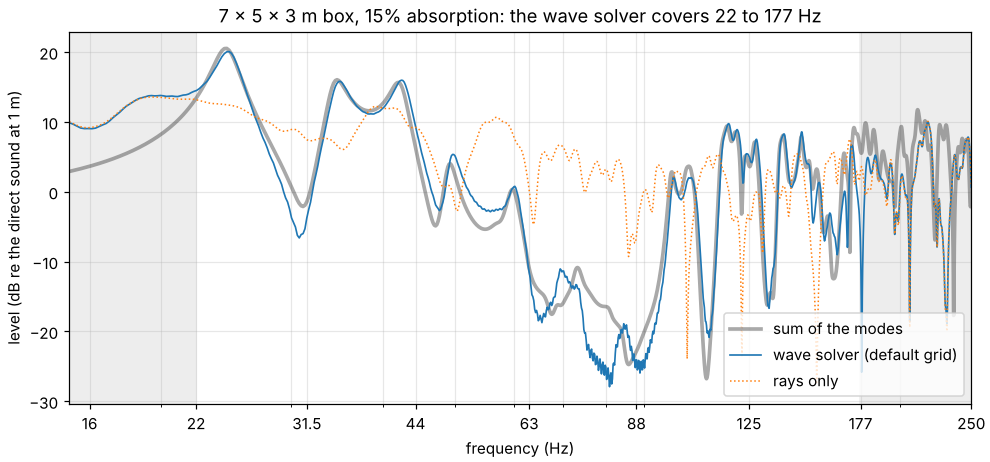
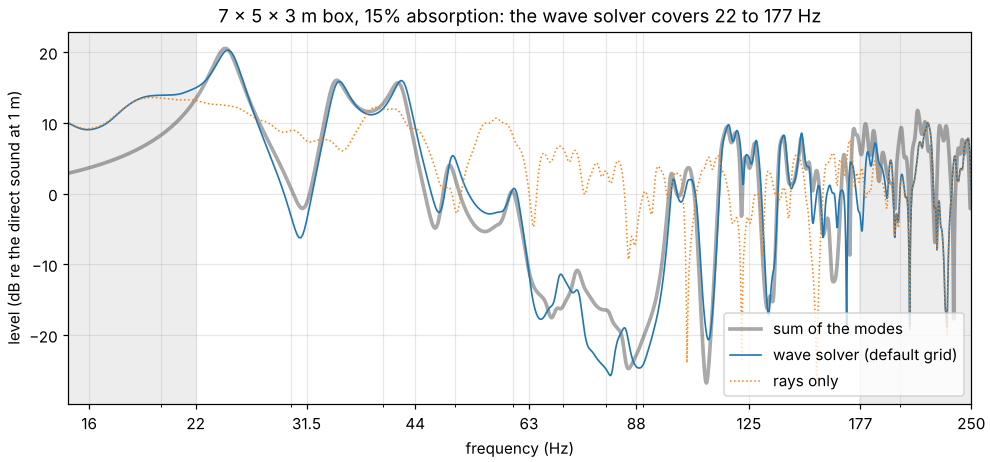
Update the wave solver's documented figures
Rerun validation/wave_solver.py after the wave fixes and regenerate its
plot. In the 7 x 5 x 3 m box the 125 Hz band now takes the rays' tail at
its full level above the crossover, which brings its T20 to 0.86 s
against 0.90 s from the modes, so the README now says within 5 %. With
16 cells per wavelength the 63 Hz T20 drops from 0.95 to 0.90 s: the
static pressure the old source left had flattened that band's decay at
-36 dB. The duct, mode and free-field figures move in the last digit.

The README also states the grid's dispersion, up to 1.7 % slower at 8
points per wavelength, among what the wave solver leaves out.

Assisted-by: Claude Code

diff --git a/docs/validation.md b/docs/validation.md
@@ -50,10 +50,12 @@ The test suite runs on Linux, macOS and Windows for every pull request and check
   specular paths alone drop by more than 5 dB, and across the boundary of a reflection
   off one of the corner's walls within 0.05 dB;
 - the wave solver: the modes of a rigid box (within 0.6 Hz), the reflection off the end
-  of a duct for four admittances (within 0.005, and below 0.05 for a matched end), the
-  free-field level of the 63 Hz band (within 1 dB of the rays), the direction of the
-  direct sound, open models and thin screens (stable, and the sound leaves), and runs
-  shared by bands with the same absorption;
+  of a duct for four admittances (within 0.005, and below 0.05 for a matched end, and
+  off the inner face of a wall thinner than a cell), the free-field level of the 63 Hz
+  band (within 1 dB of the rays), the arrival time and direction of the direct sound,
+  open models and thin screens (stable, and the sound leaves), runs shared by bands with
+  the same absorption, and the level of the late part across the crossover to the rays
+  (flat within 1 dB in sixth octaves);
 - sweep measurements of synthetic rooms through a distorting loudspeaker, with
   noise and interface latency: from 250 Hz up, the room's response comes back with
   errors 30 dB below it and T30 within 3 %; with a noise floor 55 dB down, T30 stays
@@ -237,7 +239,7 @@ the mode varies, 2/L along the others), within 0.4 %:
 |---|---:|---:|---:|---:|
 | (1, 0, 0) | 24.50 | 24.48 | 1.405 | 1.404 |
 | (0, 1, 0) | 34.30 | 34.31 | 1.503 | 1.501 |
-| (1, 1, 0) | 42.15 | 42.15 | 1.748 | 1.745 |
+| (1, 1, 0) | 42.15 | 42.15 | 1.748 | 1.746 |
 | (2, 0, 0) | 49.00 | 49.00 | 1.405 | 1.403 |
 | (0, 0, 1) | 57.17 | 57.11 | 1.731 | 1.727 |
 | (0, 2, 1) | 89.30 | 89.29 | 2.074 | 2.067 |
@@ -252,7 +254,7 @@ as exp(−βP/(2A)) per metre (perimeter P, cross-section A), whatever the cell 
 | end admittance β | 0 | 0.1 | 0.25 | 0.5 | 1 |
 |---|---:|---:|---:|---:|---:|
 | reflection, theory | 1.000 | 0.818 | 0.600 | 0.333 | 0 |
-| wave solver (60 to 150 Hz) | 0.999 | 0.818 | 0.601 | 0.336 | 0.044 |
+| wave solver (60 to 150 Hz) | 0.998 | 0.817 | 0.601 | 0.336 | 0.044 |
 
 | walls β = 0.05, amplitude after 10 m | theory | wave solver, 10 cm cells | 5 cm cells |
 |---|---:|---:|---:|
@@ -260,7 +262,7 @@ as exp(−βP/(2A)) per metre (perimeter P, cross-section A), whatever the cell 
 
 **Free field.** In a 30 x 24 x 24 m room with 95 % absorption, the direct sound's
 energy in the 63 and 125 Hz bands at 1 to 8 m is within 0.35 dB of the free-field level
-the rays give (−0.06 to −0.13 dB at 63 Hz, −0.16 to −0.33 dB at 125 Hz).
+the rays give (−0.05 to −0.13 dB at 63 Hz, −0.16 to −0.33 dB at 125 Hz).
 
 **A whole room.** A 7 x 5 x 3 m box with 15 % absorption on every surface, simulated
 with the default settings (the 63 and 125 Hz bands from the wave solver, 20 cm cells),
@@ -270,8 +272,8 @@ analysed alike (ISO 3382-1, octave filters):
 | model | G 63 Hz (dB) | G 125 Hz | EDT 63 Hz (s) | EDT 125 Hz | T20 63 Hz (s) | T20 125 Hz |
 |---|---:|---:|---:|---:|---:|---:|
 | sum of the modes | 20.3 | 23.5 | 1.02 | 0.96 | 0.94 | 0.90 |
-| wave solver | 21.1 | 22.7 | 1.04 | 0.92 | 0.94 | 0.89 |
-| wave solver, 16 cells per wavelength | 20.8 | 23.6 | 1.01 | 0.81 | 0.95 | 0.94 |
+| wave solver | 21.1 | 22.9 | 1.04 | 0.95 | 0.94 | 0.86 |
+| wave solver, 16 cells per wavelength | 20.8 | 23.7 | 1.01 | 0.86 | 0.90 | 0.93 |
 | rays only | 25.7 | 21.9 | 0.67 | 0.77 | 0.92 | 0.83 |
 
 ![Transfer function of the box from the sum of its modes, the wave solver and rays](images/wave.png)
@@ -279,10 +281,10 @@ analysed alike (ISO 3382-1, octave filters):
 The wave solver follows the modes peak for peak from 22 Hz up. What is left comes
 mostly from where the grid puts the walls: within half a cell of the model's, here
 6.93 x 4.95 x 2.97 m with 20 cm cells, which moves each mode by up to 1 %. In a room
-this sparse in modes, that moves G by up to 1 dB and EDT by up to 16 %; more cells per
-wavelength move the walls but do not make every figure converge. Rays give the average
-over the room instead: 5.4 dB more at this seat in the 63 Hz band, where the listener
-sits near the nodes of most modes.
+this sparse in modes, that moves G by up to 1 dB, EDT by up to 11 % and T20 by up to
+4 %; more cells per wavelength move the walls but do not make every figure converge.
+Rays give the average over the room instead: 5.4 dB more at this seat in the 63 Hz
+band, where the listener sits near the nodes of most modes.
 
 ## Real-time convolver
 

diff --git a/README.md b/README.md
@@ -529,13 +529,16 @@ cells are refused.
 
 In a 7 x 5 x 3 m box with 15 % absorption, the wave solver follows the sum of the box's
 modes from 22 Hz up; rays give the average level instead. In the 63 and 125 Hz bands,
-G is within 1 dB of the modes and T20 within 2 %; rays are up to 5.4 dB and 8 % off.
+G is within 1 dB of the modes and T20 within 5 %; rays are up to 5.4 dB and 8 % off.
 
 What it leaves out: the absorption of a surface is real-valued and the same across a
 band; walls on the grid lie within half a cell of the model's, which can move a small
-room's modes by a few percent (more `points_per_wavelength` moves them less); sources
-radiate equally in all directions in the wave bands; and air absorption, negligible
-there, is left out.
+room's modes by a few percent (more `points_per_wavelength` moves them less); waves on
+the grid travel slower the shorter they are, by up to 1.7 % at the top of the highest
+band with 8 points per wavelength (along the grid's axes, not at all along its
+diagonals), which nothing corrects, so the modes there come out up to that much low;
+sources radiate equally in all directions in the wave bands; and air absorption,
+negligible there, is left out.
 
 ### Validation
 
